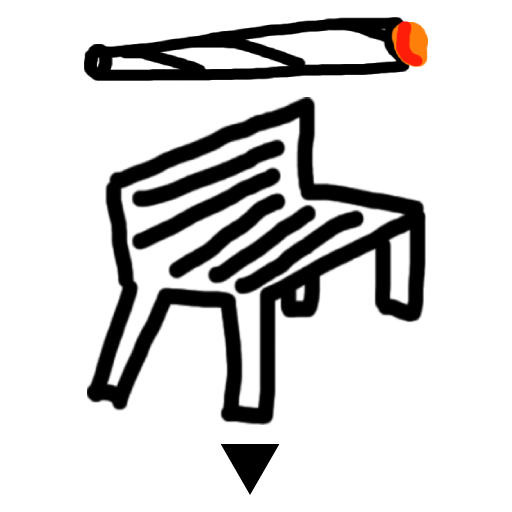
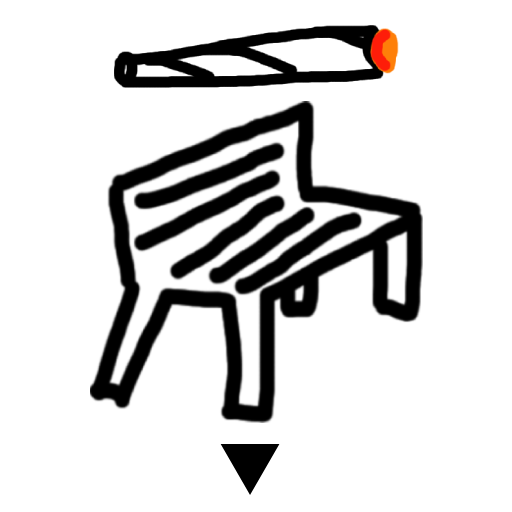
Updated filter functionality and added asset archive

diff --git a/assets/draw_bench.js b/assets/draw_bench.js
@@ -8,8 +8,8 @@ window.drawBench = function(feature, latlng, context){
 
             // bench icon depends on kiffen_erlaubt
             const kiffen_erlaubt = feature && feature.properties && feature.properties.kiffen_erlaubt;
-            const iconUrl = id === window.__lastSelectedBench ? (kiffen_erlaubt ? "assets/bench_kiffen_selected.png" : "assets/bench_selected.png") : (kiffen_erlaubt ? "assets/bench_kiffen.png":"assets/bench.png");
-            //const iconUrl = kiffen_erlaubt ? "assets/bench_kiffen.png" : "assets/bench.png";
+            const iconUrl = id === window.__lastSelectedBench ? (kiffen_erlaubt ? "assets/bench_rauchen_selected.png" : "assets/bench_selected.png") : (kiffen_erlaubt ? "assets/bench_rauchen.png":"assets/bench.png");
+            //const iconUrl = kiffen_erlaubt ? "assets/bench_rauchen.png" : "assets/bench.png";
             const flag = L.icon({
                 iconUrl: iconUrl,
                 iconSize: [48, 48],
@@ -167,14 +167,14 @@ window.drawBench = function(feature, latlng, context){
                     const prevMarker = window.__lastSelectedMarker;
                     const prevKiffen = prevMarker.options.icon.options.iconUrl.includes("kiffen");
                     prevMarker.setIcon(L.icon({
-                        iconUrl: prevKiffen ? "assets/bench_kiffen.png" : "assets/bench.png",
+                        iconUrl: prevKiffen ? "assets/bench_rauchen.png" : "assets/bench.png",
                         iconSize: [48,48], iconAnchor: [24, 48], popupAnchor: [0, -16]
                     })
                     )
                 }
                 window.__lastSelectedMarker = marker;
                 // updates the last clicked markers icon to reflect selection
-                const newIconUrl = id === window.__lastSelectedBench ? (kiffen_erlaubt ? "assets/bench_kiffen_selected.png" : "assets/bench_selected.png") : (kiffen_erlaubt ? "assets/bench_kiffen.png":"assets/bench.png");
+                const newIconUrl = id === window.__lastSelectedBench ? (kiffen_erlaubt ? "assets/bench_rauchen_selected.png" : "assets/bench_selected.png") : (kiffen_erlaubt ? "assets/bench_rauchen.png":"assets/bench.png");
                 marker.setIcon(L.icon({
                     iconUrl: newIconUrl,
                     iconSize: [48, 48],

diff --git a/assets/dashExtensions_default.js b/assets/dashExtensions_default.js
@@ -1,0 +1,22 @@
+window.dashExtensions = Object.assign({}, window.dashExtensions, {
+    default: {
+        function0: (feature, latlng, context) => window.drawBench(feature, latlng, context),
+        function1: function(feature, latlng, index, context) {
+            const scatterIcon = L.DivIcon.extend({
+                createIcon: function(oldIcon) {
+                    let icon = L.DivIcon.prototype.createIcon.call(this, oldIcon);
+                    icon.style.backgroundColor = 'rgba(255,255,255,0.7)'; // fixed color
+                    return icon;
+                }
+            });
+            const icon = new scatterIcon({
+                html: '<div><span>' + feature.properties.point_count_abbreviated + '</span></div>',
+                className: "marker-cluster",
+                iconSize: L.point(40, 40)
+            });
+            return L.marker(latlng, {
+                icon: icon
+            });
+        }
+    }
+});

diff --git a/dash_app.py b/dash_app.py
@@ -181,6 +181,8 @@ def update_class(state):
     Input("map", "bounds"),
 )
 def update_nichtkiffen_layer(checkbox_value, map_bounds):
+    # doesn't seem to get any input
+    if map_bounds: print(f"Nonempty map bounds! 😍 {map_bounds}")
     nichtkiffen_layer = dl.GeoJSON(data=nichtkiffen_geojson, options=dict(style=dict(color="red", weight=1, fillOpacity=0.05))) if checkbox_value else None
     return nichtkiffen_layer
 
